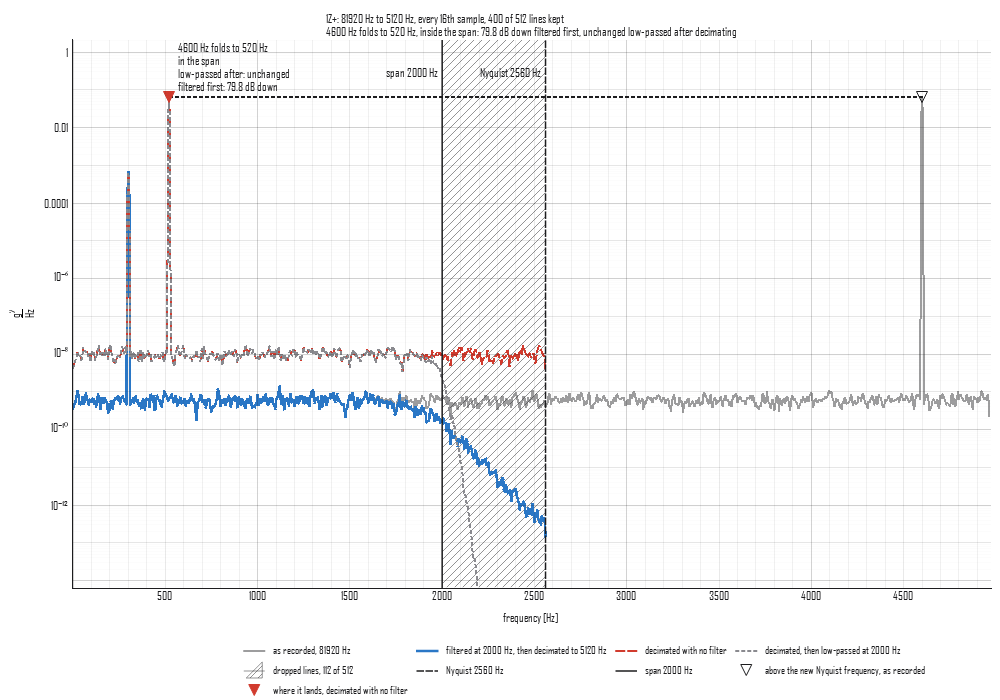
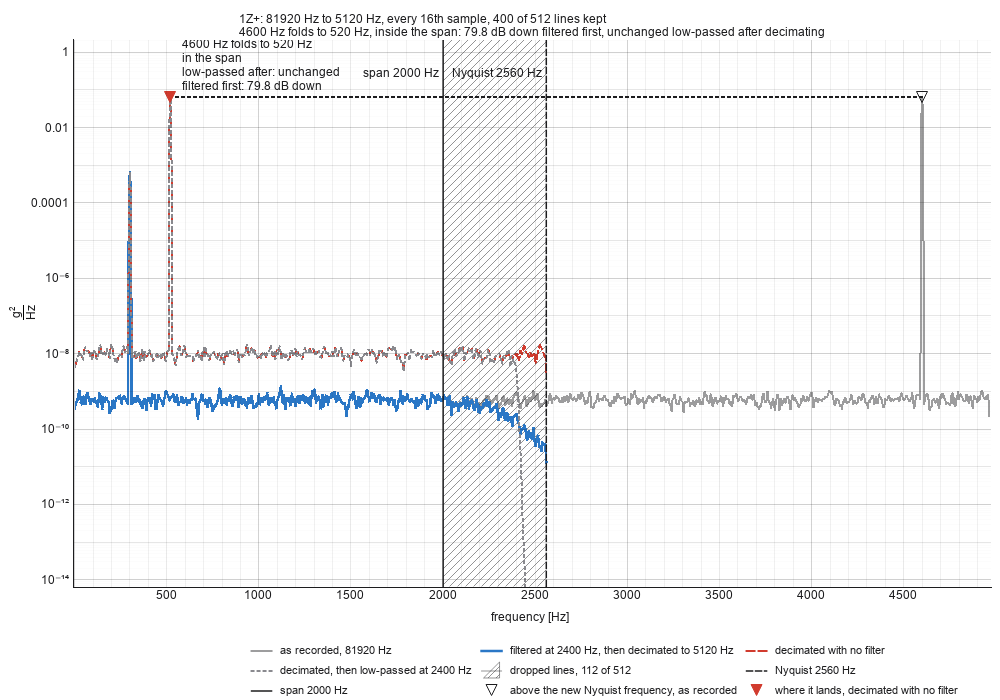
Guide: resampling with the corner above the span, figure redrawn

diff --git a/docs/guide/resample.md b/docs/guide/resample.md
@@ -39,26 +39,32 @@ line counts 400, 800 and 1,600 on an analyzer's menu come from.
 ## Resampling
 
 `resample(history, rate)`, or `history.resample(rate)`, filters every
-channel through a zero-phase Butterworth low-pass with its corner at
-the new rate over 2.56 (`anti_alias_filter`), then keeps every q-th
-sample. The new rate must divide the record's into a whole factor of at
+channel through a zero-phase Butterworth low-pass (`anti_alias_filter`),
+then keeps every q-th sample. The new rate must divide the record's into a whole factor of at
 least 2; a rate that does not is refused with the nearest two that do.
 The filter runs forward and backward, as the Filter reading's does, so
 nothing moves in time and the edge transients land at the record's
-ends. The result keeps the records' descriptions and the source's clock
-at every q-th sample. It does not carry the averaging or the shock
-windows, since an averaging counts its frame in samples, which spans
-another time at the new rate.
+ends. The result keeps the records' descriptions, the source's clock at
+every q-th sample (a record that starts at 3.25 s still does), and the
+shock windows, which are in seconds from the record's start. It does
+not carry the averaging, since an averaging counts its frame in
+samples, which spans another time at the new rate. The channels are
+filtered and decimated one at a time, so the record filtered at the
+full rate is never held whole beside it.
 
-The default design order is 8 (`ORDER`). Run forward and backward it
-rolls off as a sixteenth-order filter, and at the lowest frequency that
-can fold into the span, the new rate less the span (3,120 Hz at
-5,120 Hz, 1.56 spans), it is 62 dB down: past the 50 dB test documents
-commonly ask of an anti-alias filter. Seventh order is the least that
-gets there, and sixth falls short at about 46 dB. The corner sits on
-the span's top line, where the zero-phase pair is 6.02 dB down by
-definition, so the top few lines of the span carry part of the
-roll-off.
+The filter's corner is at 1.2 times the span (`CORNER`), 2,400 Hz at
+5,120 Hz, among the dropped lines and below the new Nyquist frequency.
+A zero-phase pair is 6.02 dB down at its nominal corner, so a corner on
+the span would take the span's top line 6 dB down and 0.9 of the span
+1.5 dB down; at 1.2 spans the span is flat to 0.1 dB. The lowest
+frequency that can fold into the span is the new rate less the span
+(3,120 Hz at 5,120 Hz, 1.56 spans), 1.3 corners up. The default design
+order is 12 (`ORDER`), which run forward and backward is 55.8 dB down
+there taking 51,200 Hz to 5,120 Hz, 55.1 dB taking 81,920 Hz to
+5,120 Hz, and never less than 54.7 dB at any factor: past the 50 dB
+test documents commonly ask of an anti-alias filter. Eleventh order
+just gets there at large factors, and tenth falls short at about
+46 dB.
 
 `resample(history, rate, anti_alias=False)` keeps every q-th sample
 with no filter and issues an `AliasWarning` every time. Use it only for
@@ -97,7 +103,8 @@ plot_resample(history, 5120.0, frequencies=[4600.0], path='resample.png')
 ```
 
 `read_resample` resamples one channel three ways, filtered first,
-decimated bare, and decimated then low-passed at the span, and turns
+decimated bare, and decimated then low-passed through the same filter,
+and turns
 each and the record as recorded into an autospectrum on one line
 spacing (Hann frames, half overlapped, 1,024 samples at the new rate by
 default). Each frequency given above the new Nyquist frequency is
@@ -108,7 +115,7 @@ is the one folded.
 Decimated bare, the 4,600 Hz resonance stands at 520 Hz at
 0.0667 g²/Hz, the height of a 1 g tone on a 5 Hz Hann line, and the
 whole floor between 2,560 and 40,960 Hz has folded on top of the real
-one, sixteen times as high. Low-passed at 2,000 Hz after the
+one, sixteen times as high. Low-passed at 2,400 Hz after the
 decimation, the 520 Hz line is unchanged. Filtered first, the
 resonance is gone: the line at 520 Hz is the floor, 79.8 dB below the
 alias. The 300 Hz tone comes through all three at its height.
@@ -124,14 +131,11 @@ at 2,000 Hz and the Nyquist frequency at 2,560 Hz are marked, and the
 | Reading | What it is |
 |---|---|
 | `source_rate`, `rate`, `factor` | the record's rate, the new one, and how many samples make one |
-| `nyquist`, `span`, `corner` | half the new rate, the alias-free span, and the filter's corner, at the span |
+| `nyquist`, `span`, `corner` | half the new rate, the alias-free span, and the filter's corner, 1.2 spans |
 | `lines`, `kept`, `dropped`, `resolution` | the spectra's lines to the Nyquist frequency, inside the span and above it, and their spacing |
 | `gain_at_span`, `lowest_fold`, `gain_at_fold` | the filter's zero-phase gain at the span's top, the lowest frequency that folds into the span, and the gain there |
 | `folds` | each frequency folded: where it lands, whether inside the span or among the dropped lines, and the level at the alias decimated bare, low-passed after, and filtered first, with the last two in dB against the bare |
 | `spectra` | the four autospectra the levels are read from |
-
-The figure was drawn on Windows, so its typeface differs from the
-other figures in this guide.
 
 ## In the app
 
